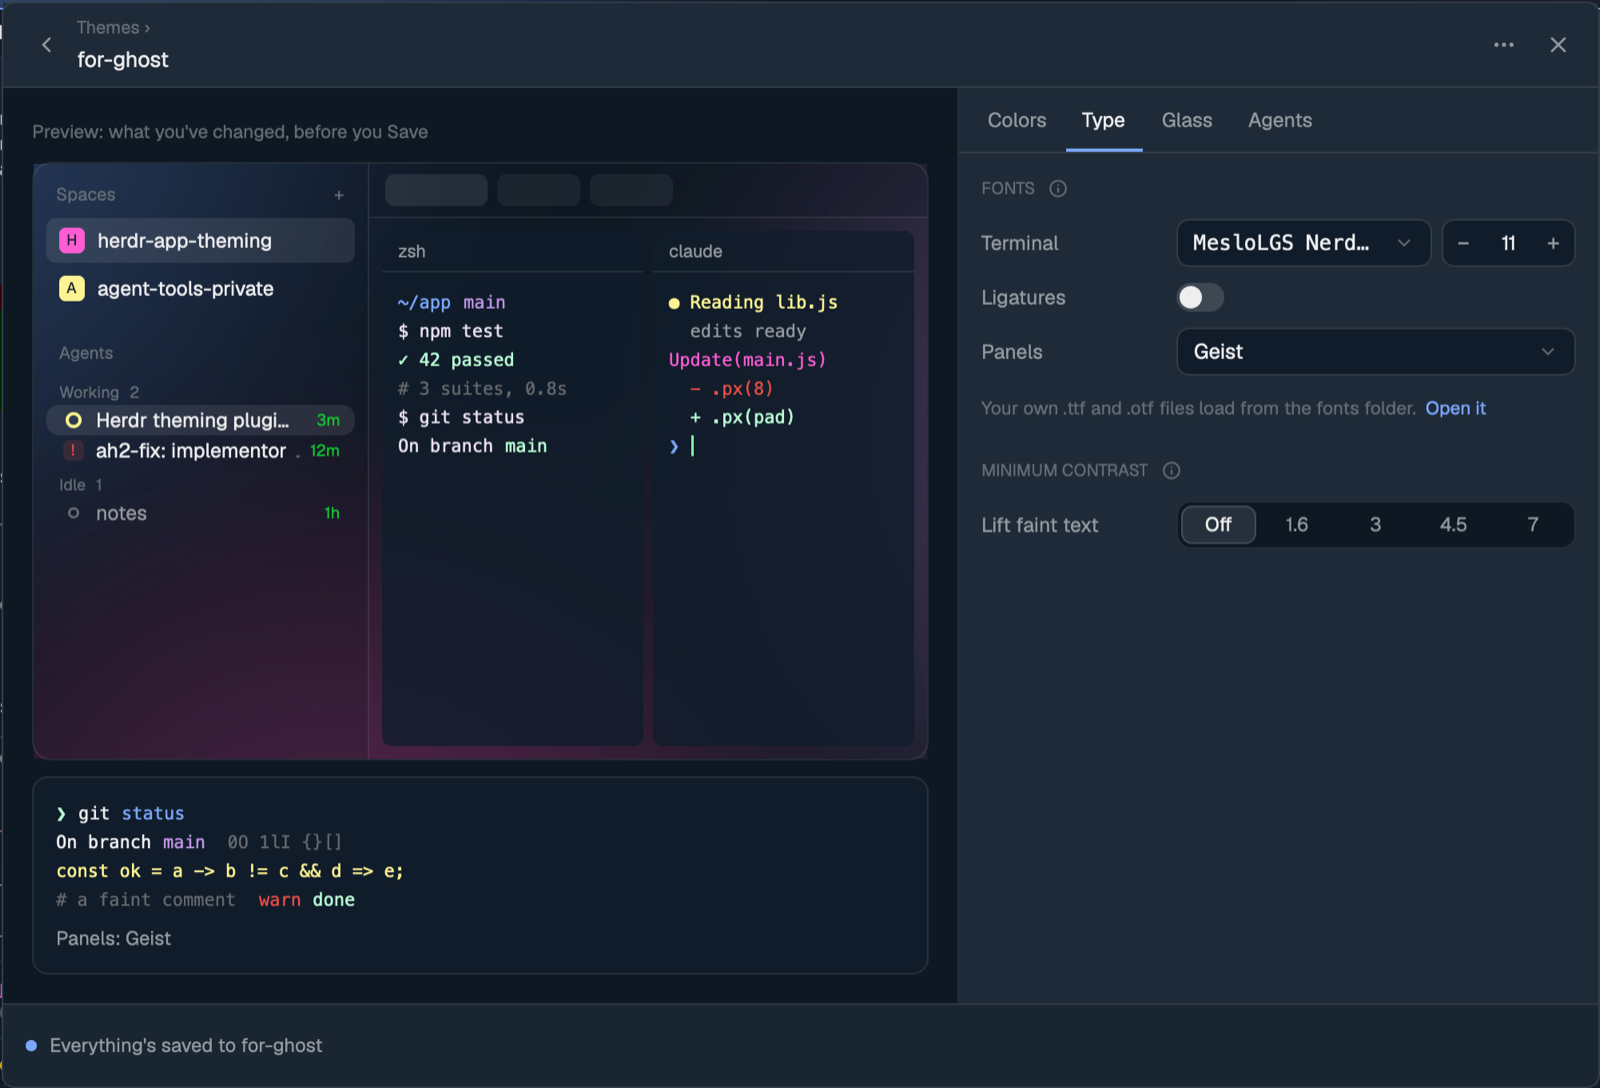
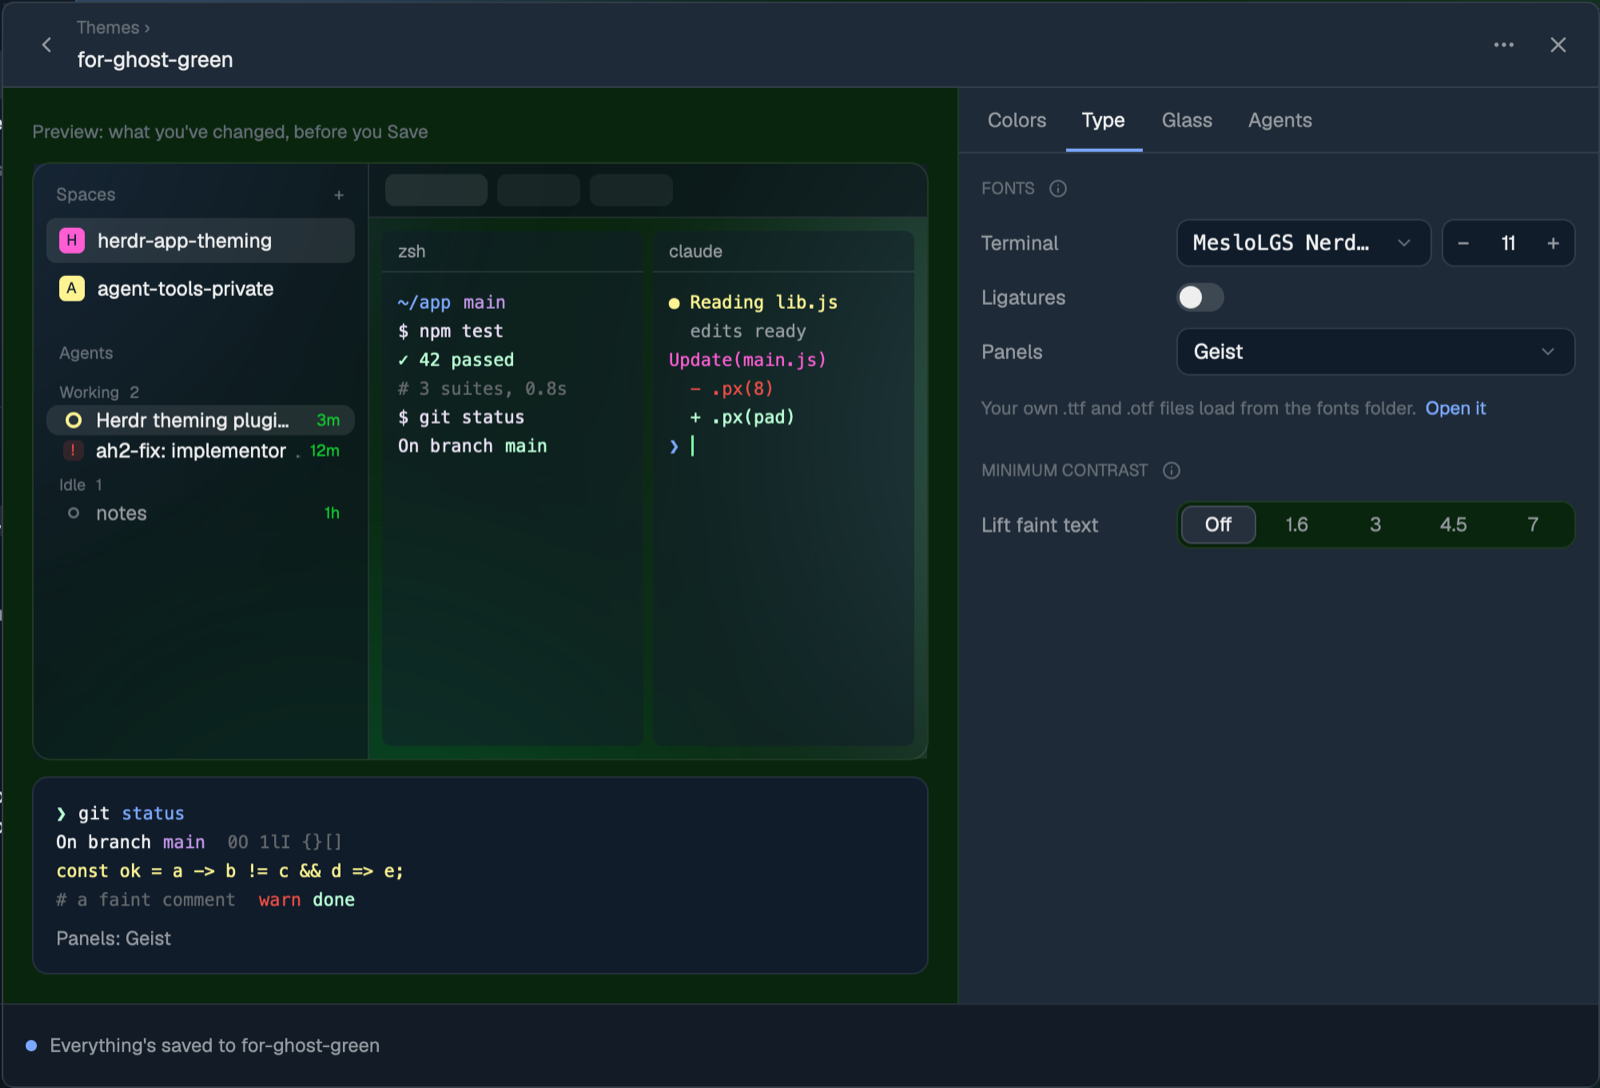
Screenshots of every view in for-ghost-green
Claude-Session: https://claude.ai/code/session_01C6jtLMUvmADjTbxwyPycKJ

diff --git a/README.md b/README.md
@@ -56,11 +56,11 @@ that folder and stay. Close and reopen the Studio afterwards.
 
 Every view has the same shape: a big preview of the whole window on the left, the controls on the
 right, and one bar along the bottom that says what's going on and holds the buttons that act on it.
-The screenshots are of for-ghost, a custom theme with a Bloom background.
+The screenshots are of for-ghost-green, a custom theme with a green Bloom background.
 
 ### The theme library
 
-![The theme library, previewing Tokyo Night](docs/screenshots/manager.png)
+![The theme library, with for-ghost-green in use](docs/screenshots/manager.png)
 
 This is what opens. Click a theme to preview it on the left; nothing changes in the real window
 until **Use it**. Search by name, filter to Dark or Light, and the sections run Your themes,
@@ -183,7 +183,7 @@ Studio says so and keeps Herdr's.
 
 ### Settings
 
-![Settings, with the sidebar on auto-hide](docs/screenshots/settings.png)
+![The Settings page](docs/screenshots/settings.png)
 
 The gear in the library. These belong to you, not a theme, so changing themes keeps them, and
 they apply at once.
